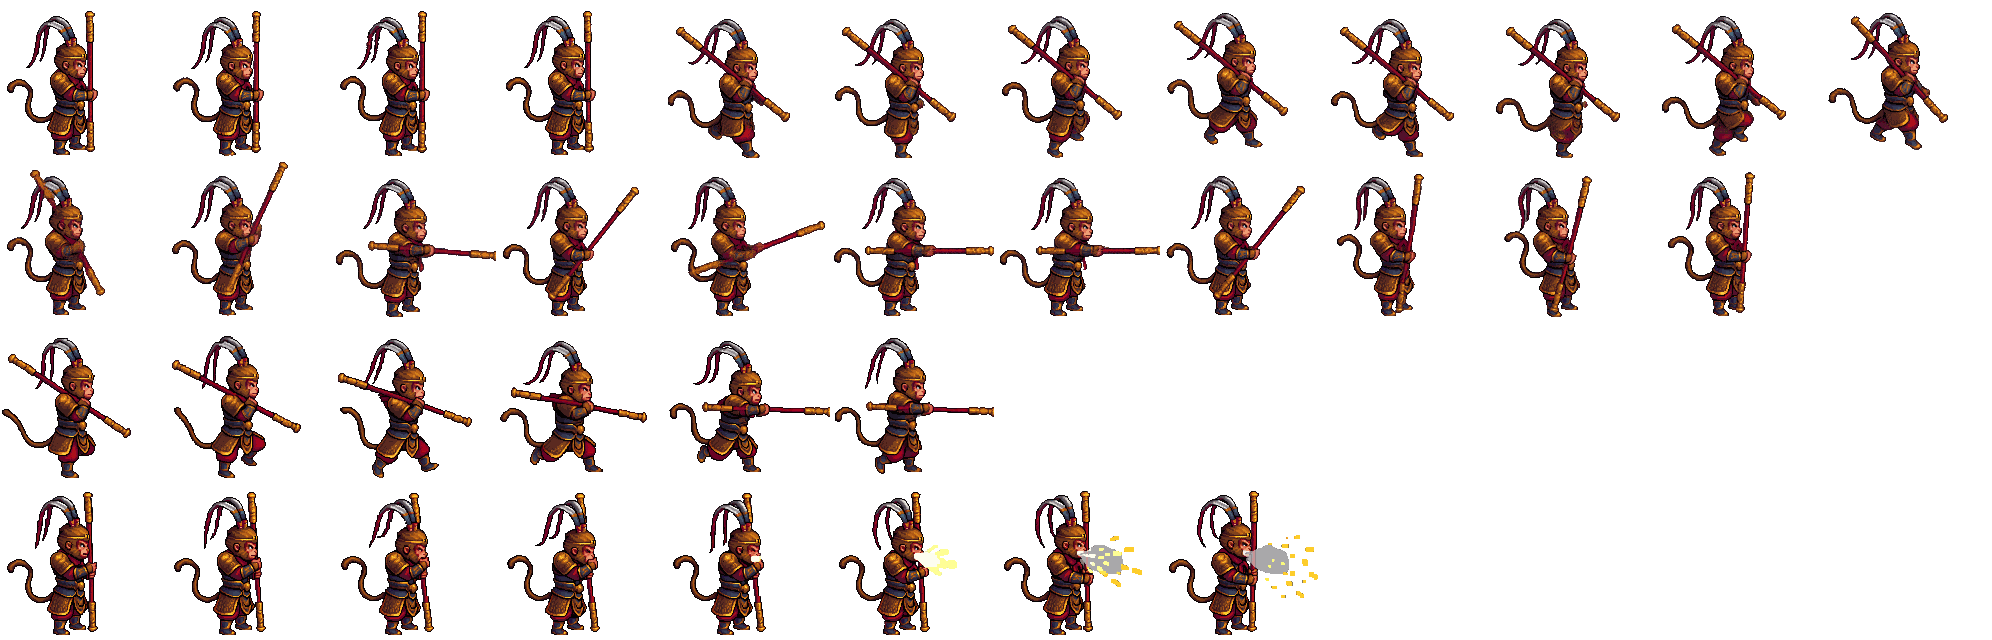
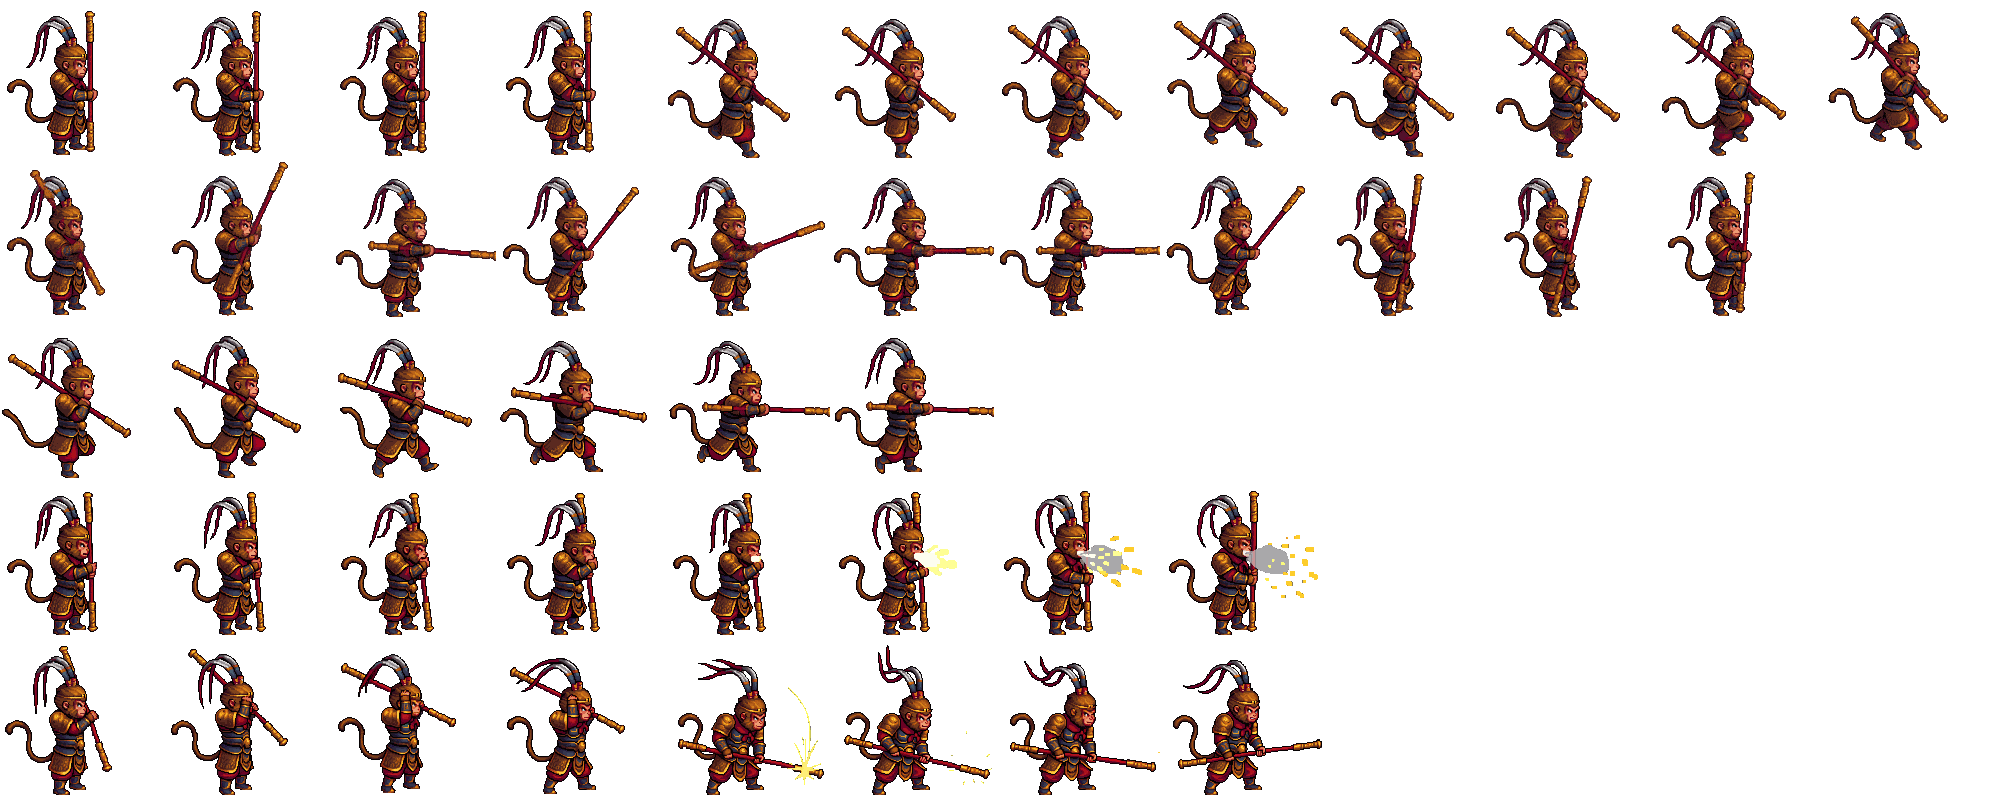
Ngộ Không: đòn thứ 3 bổ từ trên xuống (khung + vệt trăng + gai bụi), khói thổi lông xanh nhạt; tạo bằng PixelLab theo clip tham chiếu
Claude-Session: https://claude.ai/code/session_01MYwTvK6dULdzXHFPeBSgyd

Changed region(s): [[0.0, 0.0, 0.996, 1.0]]

diff --git a/game/index.html b/game/index.html
@@ -1712,7 +1712,7 @@ const preDecode=i=>{try{i.decode&&i.decode().catch(()=>{})}catch(e){}};
 /* hiệu ứng gói Wuxia */
 const VFX={};['arc_sheet','wanjian_sword','petal','rulai_crater','taiji','ink_slash','ink_impact','ink_trail'].forEach(n=>{const i=new Image();i.src='assets/vfx/'+n+'.png';preDecode(i);VFX[n]=i});
 // VFX Tôn Ngộ Không (PixelLab pro): lưới đều, khung theo hàng; px,py = tâm (người/điểm nện/điểm trúng)
-const SPX={wk_slash:{w:192,h:193,c:3,n:9,px:75,py:107},wk_thrust:{w:232,h:80,c:3,n:7,px:29,py:19},wk_hit:{w:85,h:84,c:3,n:9,px:40,py:43},
+const SPX={wk_arc:{w:187,h:302,c:3,n:9,px:66,py:246},wk_puff2:{w:35,h:24,c:3,n:7,px:20,py:17},wk_slash:{w:192,h:193,c:3,n:9,px:75,py:107},wk_thrust:{w:232,h:80,c:3,n:7,px:29,py:19},wk_hit:{w:85,h:84,c:3,n:9,px:40,py:43},
  wk_stomp:{w:159,h:176,c:8,n:8,px:80,py:112},wk_roar:{w:260,h:275,c:8,n:8,px:41,py:194},wk_summon:{w:251,h:259,c:8,n:8,px:125,py:202},wk_whirl:{w:197,h:213,c:8,n:8,px:101,py:121},wk_cloud:{w:140,h:104,c:4,n:10,px:70,py:52},wk_puff:{w:97,h:92,c:3,n:9,px:52,py:44},
  sw_a:{w:140,h:45,c:3,n:8,px:68,py:44},swhit:{w:64,h:64,c:3,n:6,px:32,py:32},k5a_front:{w:82,h:103,c:3,n:6,px:-36,py:106},k5b_front:{w:124,h:163,c:3,n:6,px:22,py:151},k5c_behind:{w:334,h:125,c:4,n:15,px:167,py:107},k5c_front:{w:334,h:121,c:4,n:15,px:167,py:99},hv_mark:{w:128,h:66,c:5,n:17,px:64,py:33},hv_vortex_b:{w:191,h:92,c:4,n:14,px:96,py:98},hv_vortex_f:{w:209,h:100,c:6,n:28,px:106,py:100},hv_ring:{w:137,h:131,c:5,n:19,px:69,py:83},tx_in:{w:365,h:604,c:11,n:30,px:215,py:520},tx_loop:{w:309,h:278,c:13,n:60,px:155,py:196},tx_out:{w:304,h:269,c:11,n:11,px:153,py:187},vk_e:{w:838,h:316,c:4,n:46,px:198,py:213},hp_guard:{w:128,h:128,c:1,n:1,px:64,py:64},hp_imp:{w:48,h:48,c:8,n:8,px:24,py:24},hp_star:{w:64,h:64,c:10,n:10,px:32,py:32},zs1:{w:101,h:87,c:3,n:9,px:44,py:102},zs2:{w:108,h:122,c:3,n:7,px:32,py:117},zs3:{w:87,h:88,c:3,n:9,px:30,py:90},slash_el:{w:48,h:80,c:3,n:8,px:24,py:40},swqi:{w:64,h:48,c:3,n:6,px:36,py:24},sw_arc:{w:96,h:96,c:3,n:7,px:46,py:49},
  cA_behind:{w:132,h:128,c:3,n:6,px:74,py:136},cA_front:{w:73,h:14,c:2,n:4,px:-39,py:57},cB_behind:{w:90,h:124,c:3,n:6,px:17,py:130},cB_front:{w:104,h:162,c:3,n:6,px:13,py:148},cC_behind:{w:151,h:23,c:3,n:7,px:76,py:62},cC_front:{w:191,h:72,c:3,n:7,px:100,py:65},sw_b:{w:62,h:90,c:3,n:9,px:6,py:79},sw_c:{w:176,h:148,c:4,n:10,px:88,py:74}};  // combo kiếm: cA/cB/cC theo ảnh chủ game, lớp behind (sau người) + front (trước người), mốc = chân
@@ -2066,7 +2066,7 @@ const WEAPONS={
 const GOD=o=>Object.assign({src:'g',t:'w'},o);
 const GODS={
  wukong:{name:'Tôn Ngộ Không',tier:'SSS',mult:3.0,dur:20,cd:60,armor:15,spd:0.2,look:'wukong',wpn:'bong',g:'悟',role:'Sát thương diện rộng, thổi lông hóa khỉ con',wname:'Như Ý Kim Cô Bổng',
-  basic:{name:'Quét Gậy',g:'棒',cd:0.42,range:145,cast(tg){const a=angTo(tg);P._gB=!P._gB;swing(a,P.sw=-(P.sw||1));const fc=Math.cos(a)<0?-1:1,ta=clamp(Math.atan2(Math.sin(a),Math.abs(Math.cos(a))),-0.35,0.35);if(!P._gB){/* Bổ: gậy giơ cao bổ xuống phía trước -> vệt trăng tâm ở tay, quét trên xuống trước mặt; trúng ở khung gậy bổ xuống, đã chạy đi thì hủy */later(0.2,()=>{if(P.form!=='god')return;const sp=vok('wk_slash');arc(P.x,P.y-8,a,138,2.4,14*gp(),GOD({kb:120,nofx:sp}),'#ffd36a',1);if(sp)fx({k:'sp',s:'wk_slash',x:P.x+fc*4,y:P.y-64,ang:ta*fc,sc:1.2,fx:fc,f0:1,T:0.42,al:0.5})},'g')}
+  basic:{name:'Quét Gậy',g:'棒',cd:0.42,range:145,cast(tg){const a=angTo(tg);P._gN=((P._gN||0)+1)%3;const slam=P._gN===0;P._gB=P._gN===2;P._gSl=slam;swing(a,P.sw=-(P.sw||1));if(slam){const fcs=Math.cos(a)<0?-1:1;P.facing=fcs;later(0.12,()=>{if(P.form!=='god')return;if(vok('wk_arc'))fx({k:'sp',s:'wk_arc',x:P.x,y:P.y,sc:0.98,fx:fcs,T:0.5,follow:1,al:0.9});},'g');later(0.33,()=>{if(P.form!=='god')return;arc(P.x,P.y-8,a,150,2.2,26*gp(),GOD({kb:220,stun:0.12}),'#ffd36a',1);G.shake=Math.max(G.shake||0,5);cracks(P.x+fcs*60,P.y,60)},'g');return}const fc=Math.cos(a)<0?-1:1,ta=clamp(Math.atan2(Math.sin(a),Math.abs(Math.cos(a))),-0.35,0.35);if(!P._gB){/* Bổ: gậy giơ cao bổ xuống phía trước -> vệt trăng tâm ở tay, quét trên xuống trước mặt; trúng ở khung gậy bổ xuống, đã chạy đi thì hủy */later(0.2,()=>{if(P.form!=='god')return;const sp=vok('wk_slash');arc(P.x,P.y-8,a,138,2.4,14*gp(),GOD({kb:120,nofx:sp}),'#ffd36a',1);if(sp)fx({k:'sp',s:'wk_slash',x:P.x+fc*4,y:P.y-64,ang:ta*fc,sc:1.2,fx:fc,f0:1,T:0.42,al:0.5})},'g')}
    else{/* Đâm: gậy nằm ngang theo hướng mặt, tia vàng phóng ra từ đầu gậy, trúng theo đường thẳng hẹp và xa hơn */later(0.12,()=>{if(P.form!=='god')return;const aa=fc>0?ta:Math.PI-ta,sp=1;arc(P.x,P.y-8,aa,175,1.1,15*gp(),GOD({kb:150,nofx:sp}),'#ffd36a',1);/* gậy không có mũi: chỉ chớp lửa nhỏ ở đầu gậy */if(vok('wk_hit'))fx({k:'sp',s:'wk_hit',x:P.x+fc*96,y:P.y-63,sc:0.45,f0:0,f1:4,T:0.22})},'g')}}},
   skills:[
    {name:'Thổi Lông Hóa Khỉ',g:'猴',hotkey:'Q',cd:9,range:420,desc:'Nhổ một nhúm lông thổi ra 5 khỉ con. Mỗi con tự tìm quái, lao tới cào cắn trong 8 giây.',cast(){P._gBlow=G.t;blowMonkeys(5)}},
@@ -2593,7 +2593,7 @@ for(const id in GODS){const d=GODS[id];(d.skills||[]).forEach((k,i)=>{if(!k.hotk
 function castGod(dt){
  const g=P.god,asp=1+S.aspd/200;
  g.basic.cd-=dt;
- if(g.basic.cd<=0){const tg=nearest(P.x,P.y,g.def.basic.range);if(tg){g.def.basic.cast(tg);g.basic.cd=g.def.basic.cd/asp}}
+ if(g.basic.cd<=0){const tg=nearest(P.x,P.y,g.def.basic.range);if(tg){g.def.basic.cast(tg);g.basic.cd=(g.def.look==='wukong'&&P._gN===0?0.78:g.def.basic.cd)/asp}}
  /* Kỹ năng và tuyệt kỹ của Hóa Thân do người chơi BẤM (chủ game, 24/11); ở đây chỉ hồi chiêu. Thần tướng khác vẫn tự thi triển. */
  const manual=true;
  for(const s of g.sk){s.cd=Math.max(0,s.cd-dt);if(manual)continue;if(s.cd<=0){if(s.def.need&&!s.def.need())continue;const tg=nearest(P.x,P.y,s.def.range);if(tg){s.def.cast(tg);s.cd=s.def.cd;s.fl=0.3}}}
@@ -2691,7 +2691,7 @@ function updHaz(dt){
 /* ===== Khỉ con (Thổi Lông Hóa Khỉ) ===== */
 const KHI={w:96,h:96,ax:48,ay:92,anims:{"idle":[[0,0],[96,0],[192,0],[288,0]],"run":[[0,96],[96,96],[192,96],[288,96],[384,96],[480,96],[576,96],[672,96]],"atk":[[0,192],[96,192],[192,192],[288,192],[384,192],[480,192],[576,192],[672,192]]},img:new Image()};KHI.img.src='assets/khi.png';preDecode(KHI.img);
 function blowMonkeys(n){const f=P.facing||1,mx=P.x+f*16,my=P.y-58;
- if(vok('wk_puff'))fx({k:'sp',s:'wk_puff',x:mx+f*14,y:my,sc:0.7,T:0.4});
+ if(vok('wk_puff2'))fx({k:'sp',s:'wk_puff2',x:mx+f*22,y:my,sc:1.8,fx:f,T:0.55,al:0.95});else if(vok('wk_puff'))fx({k:'sp',s:'wk_puff',x:mx+f*14,y:my,sc:0.7,T:0.4});
  for(let i=0;i<n;i++){const ang=(f>0?0:Math.PI)+(i-(n-1)/2)*0.55,r=rnd(70,100),x=clamp(P.x+Math.cos(ang)*r,30,AW-30),y=clamp(P.y+Math.sin(ang)*r*0.8,30,AH-30);
   // lông vàng bay từ miệng ra chỗ khỉ hiện
   for(let k=0;k<3;k++)part(mx,my,(x-mx)*rnd(2.2,2.8),(y-40-my)*rnd(2.2,2.8),0.4,2,'#ffd36a',1,0);
@@ -3179,16 +3179,18 @@ const GOD_SPR={wukong:'god_wukong'};
 {const C=[[0, 320], [166, 320], [332, 320], [498, 320], [664, 320], [830, 320]],Q=[0, 1, 2, 3, 4, 5, 5, 5];CHM.god_wukong.anims.runatk={fps:10,f:Q.map(i=>C[i].slice())}}
 /* Thổi lông (PixelLab animate-with-text-v3, 24/11): đưa tay lên miệng, hít, thổi, lông vàng bay ra. Hàng y=480 */
 CHM.god_wukong.anims.blow={fps:11,f:[[0, 480], [166, 480], [332, 480], [498, 480], [664, 480], [830, 480], [996, 480], [1162, 480]]};
+/* Đòn bổ từ trên xuống (đòn thứ 3 của chuỗi, theo clip tham chiếu 24/11; PixelLab animate-with-text-v3 1 lần 4 lượt). Hàng y=640 */
+CHM.god_wukong.anims.slam={fps:13,f:[[0, 640], [166, 640], [332, 640], [498, 640], [664, 640], [830, 640], [996, 640], [1162, 640]]};
 const godSprite=()=>P.form==='god'&&GOD_SPR[P.god.def.look]&&CH[GOD_SPR[P.god.def.look]]&&CH[GOD_SPR[P.god.def.look]].ok;
 function drawGodSprite(){
  const h=CH[GOD_SPR[P.god.def.look]],A=h.meta.anims;
- if(P.atkT>(P._gLast||0)+0.01){P._gAtk={t:G.t,an:P._gB?'attack2':'attack'}}P._gLast=P.atkT;
+ if(P.atkT>(P._gLast||0)+0.01){P._gAtk={t:G.t,an:P._gSl?'slam':P._gB?'attack2':'attack'};P._gSl=false}P._gLast=P.atkT;
  let an='idle',fi=Math.floor(G.t*6)%A.idle.f.length,lean=0;const DUR=0.45;
  if(P._gHold&&G.t<P._gHold.until){an=P._gHold.an;fi=P._gHold.fi}
  else if(P._gBlow!=null&&G.t-P._gBlow<0.73&&A.blow){an='blow';fi=Math.min(A.blow.f.length-1,Math.floor((G.t-P._gBlow)/0.73*A.blow.f.length))}
  else if(P.hurt>0.05&&A.hit){an='hit';fi=Math.min(A.hit.f.length-1,Math.floor((1-P.hurt/0.2)*A.hit.f.length))}
  // Đánh là hiện đúng động tác đánh, kể cả khi đang di chuyển (chủ game chọn 24/11); hết nhịp đánh thì về khung chạy.
- else if(P._gAtk&&G.t-P._gAtk.t<DUR){an=P.moving&&A.runatk?'runatk':P._gAtk.an;fi=Math.min(A[an].f.length-1,Math.floor((G.t-P._gAtk.t)/DUR*A[an].f.length))}
+ else if(P._gAtk&&G.t-P._gAtk.t<(P._gAtk.an==='slam'?0.62:DUR)){const D=P._gAtk.an==='slam'?0.62:DUR;an=P._gAtk.an==='slam'?'slam':(P.moving&&A.runatk?'runatk':P._gAtk.an);fi=Math.min(A[an].f.length-1,Math.floor((G.t-P._gAtk.t)/D*A[an].f.length))}
  else if(P.moving){an='run';fi=Math.floor((P.runPh||0)/18)%A.run.f.length}
  if(P.god.def.look==='wukong'&&vok('wk_aura_fire')){const A2=AURAF,i=Math.floor(G.t*A2.fps)%A2.n;X.save();X.imageSmoothingEnabled=false;X.drawImage(VFX.wk_aura_fire,(i%A2.c)*A2.w,Math.floor(i/A2.c)*A2.h,A2.w,A2.h,Math.round(P.x-A2.ax),Math.round(P.y-A2.ay),A2.w,A2.h);X.restore()}else drawAura(P.x,P.y);X.fillStyle='rgba(0,0,0,.4)';ell(P.x,P.y,22,7);
  const M=h.meta,fr=A[an].f[fi],sc=0.98,flick=P.inv>0&&P.hurt>0&&Math.floor(G.t*30)%2;

diff --git a/CLAUDE.md b/CLAUDE.md
@@ -115,3 +115,4 @@ Chủ game xem các bản làm lại (khung 7/7/12 theo guide, chuỗi Hovl, VFX
 - **Kỹ năng Ngộ Không do người chơi BẤM (24/11):** Thổi Lông (Q), Cân Đẩu Vân (F), Kim Cô Bổng mở rộng (X), Kim Cô Bổng khổng lồ (R); ô HUD là nút `BẤM` (chạm hoặc phím). `requestGodSkill` + `castGod` chỉ còn tự đánh thường và hồi chiêu cho Ngộ Không; thần tướng khác vẫn tự thi triển. Cân Đẩu Vân: mây to hơn, sống 0,45 s+, mây dưới chân 0,9 s đi theo người. Vệt `wk_slash` của đòn bổ giảm độ sáng còn 50%.
 - **MỌI thần tướng (Ngộ Không, Na Tra, Bát Giới, Thổ Địa) đều do người chơi bấm kỹ năng** (chủ game 24/11): Q/F/X cho kỹ năng 1-3, R cho tuyệt kỹ nếu có; `castGod` chỉ tự đánh thường. Hotkey gán tự động cho mọi `GODS[id]` ngay trước `castGod`. Đã thử cả 4 thần tướng: không bấm thì không tự chạy, bấm thì vào hồi chiêu.
 - **Thổi Lông Hóa Khỉ có animation riêng (24/11):** `blow` 8 khung (PixelLab animate-with-text-v3, 1 lần 4 lượt, ảnh gốc = khung idle) ở hàng y=480 của `god_wukong.png`; đưa tay lên miệng, hít, thổi, lông vàng bay ra (lông nằm sẵn trong khung). `P._gBlow` đặt lúc cast, `drawGodSprite` phát trong 0,73 s. Khung gốc: `nguon/pixellab/wkblow/`.
+- **Ngộ Không có chuỗi 3 đòn (24/11, theo clip tham chiếu):** bổ → đâm → **bổ từ trên xuống** (`slam`, 8 khung PixelLab, hàng y=640 của `god_wukong.png`, phát 0,62 s). Đòn bổ trên xuống: vệt trăng vàng-nâu `wk_arc` kèm gai bụi bung ở chân (PixelLab VFX pro, bật 0,12 s, chạm 0,33 s), sát thương 26 diện rộng 150 đẩy lùi 220 choáng 0,12 s, nhịp sau đòn này 0,78 s. Khói thổi lông mới `wk_puff2` (cục khói xanh nhạt, PixelLab lite) thay `wk_puff` lúc thổi. Chi phí PixelLab ~28 lượt (khung 4, arc 12, puff 2... xem log). Khung gốc: `nguon/pixellab/wkslam/`. Chưa làm: khỉ con dạng bóng xanh trước khi thành khỉ thật như clip.
